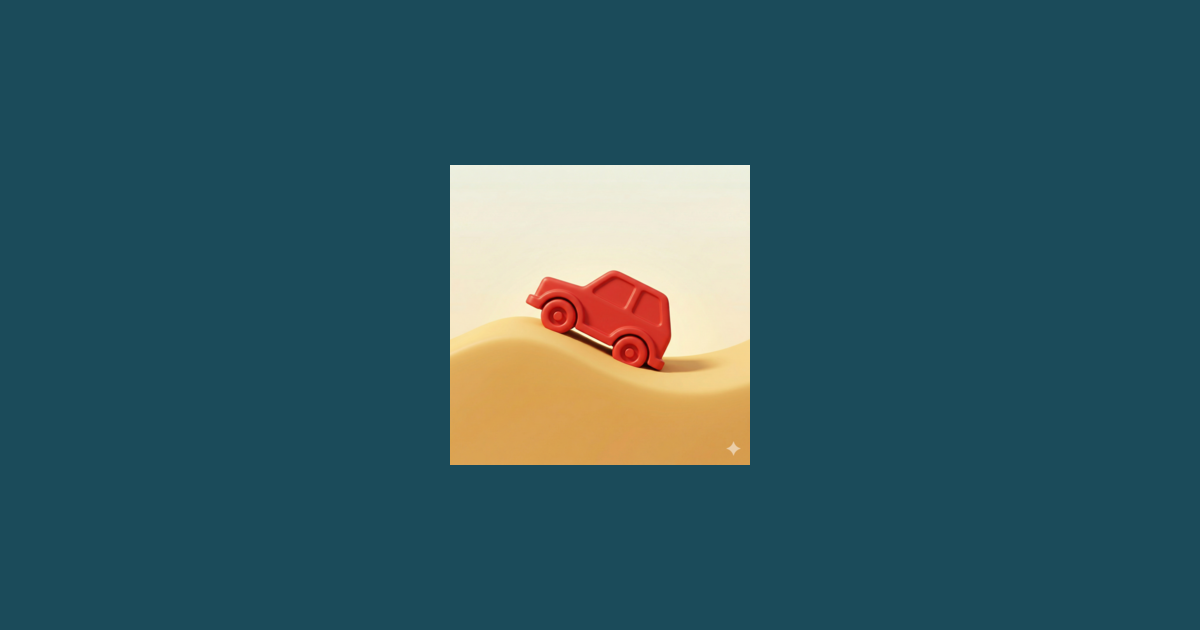
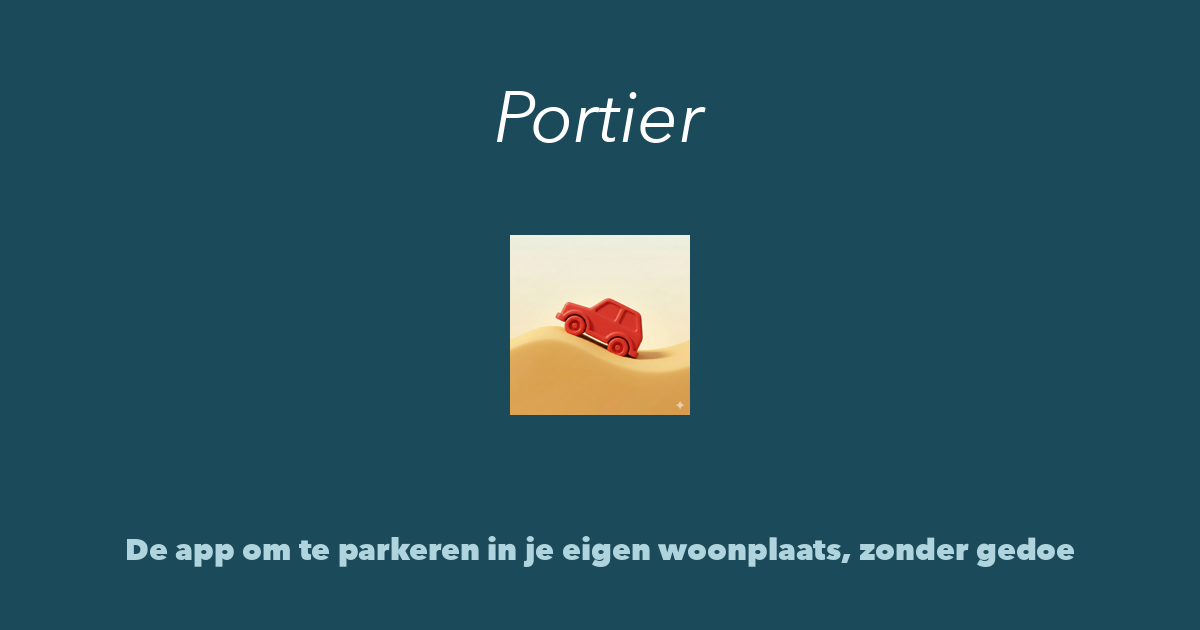
Polish OG image with headline and tagline, align page title
OG image now shows "Portier" headline, app icon, and tagline
"De app om te parkeren in je eigen woonplaats, zonder gedoe".
Title extended to 60 chars for optimal social sharing. Hero
tagline aligned with OG copy for consistent voice across all
touchpoints.

Changed region(s): [[0.37, 0.1508, 0.6475, 0.754], [0.0925, 0.8444, 0.8942, 0.9048]]

diff --git a/index.html b/index.html
@@ -5,13 +5,13 @@
     <meta name="viewport" content="width=device-width, initial-scale=1">
     <link rel="icon" href="favicon.ico" sizes="16x16 32x32">
     <link rel="apple-touch-icon" href="apple-touch-icon.png">
-    <title>Portier — Parkeren voor bewoners zonder gedoe</title>
+    <title>Portier — De app om te parkeren in je eigen woonplaats, zonder gedoe</title>
     <meta name="description" content="Portier automatiseert bewonersparkeren via ParkStart. Stap uit je auto, Portier meldt je aan. iPhone app voor Zandvoort en andere ParkStart-gemeenten.">
     <link rel="preconnect" href="https://fonts.googleapis.com">
     <link rel="preconnect" href="https://fonts.gstatic.com" crossorigin>
     <link href="https://fonts.googleapis.com/css2?family=Fraunces:ital,opsz,wght@0,9..144,700;0,9..144,900&family=Sora:wght@400;600&display=swap" rel="stylesheet">
     <meta name="theme-color" content="#1B4B5A">
-    <meta property="og:title" content="Portier — Parkeren voor bewoners zonder gedoe">
+    <meta property="og:title" content="Portier — De app om te parkeren in je eigen woonplaats, zonder gedoe">
     <meta property="og:description" content="Stap uit je auto, Portier meldt je aan. Automatisch bewonersparkeren via ParkStart voor Zandvoort en andere gemeenten.">
     <meta property="og:type" content="website">
     <meta property="og:url" content="https://portierapp.nl">
@@ -21,7 +21,7 @@
     <meta property="og:locale" content="nl_NL">
     <meta property="og:site_name" content="Portier">
     <meta name="twitter:card" content="summary_large_image">
-    <meta name="twitter:title" content="Portier — Parkeren voor bewoners zonder gedoe">
+    <meta name="twitter:title" content="Portier — De app om te parkeren in je eigen woonplaats, zonder gedoe">
     <meta name="twitter:description" content="Stap uit je auto, Portier meldt je aan. Automatisch bewonersparkeren via ParkStart.">
     <meta name="twitter:image" content="https://portierapp.nl/og-image.png">
     <style>
@@ -542,7 +542,7 @@
     <section class="hero">
         <div class="hero-content">
             <h1>Portier</h1>
-            <p class="tagline">Aanmelden voor parkeren in je eigen gemeente?<br>De Portier app regelt het voor je, <em>automatisch.</em></p>
+            <p class="tagline">De app om te parkeren in je eigen woonplaats,<br><em>zonder gedoe.</em></p>
             <p class="subtitle">Vergeet je steeds je parkeren aan te melden? Met Portier hoef je er niet meer aan te denken: de app meldt je sessie automatisch aan zodra je wegloopt bij je auto. En bezoekers meld je ook aan met gemak. Geen parkeerboetes meer in je eigen woonplaats!</p>
 
             <!-- TODO: vervang # door de echte App Store URL -->
